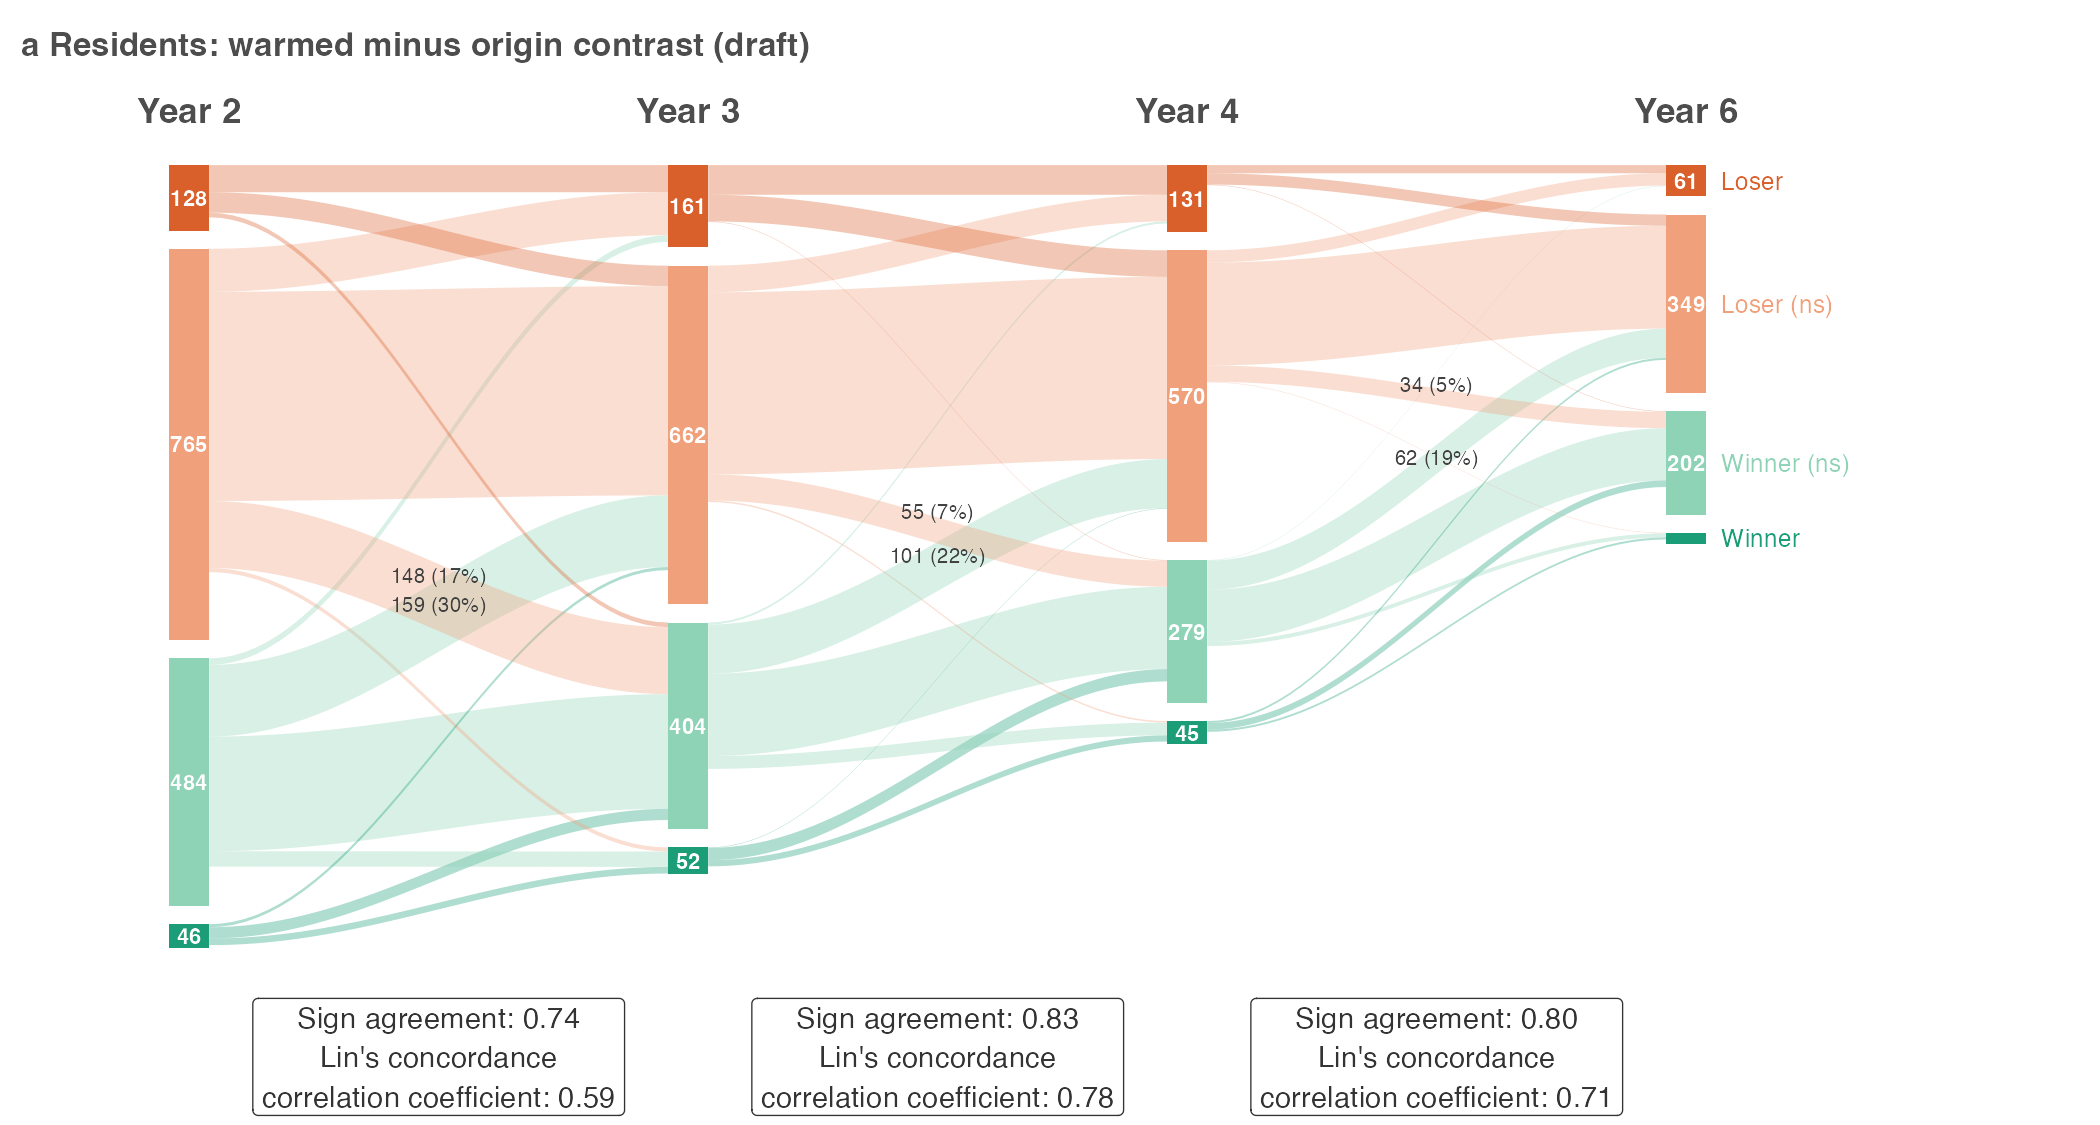
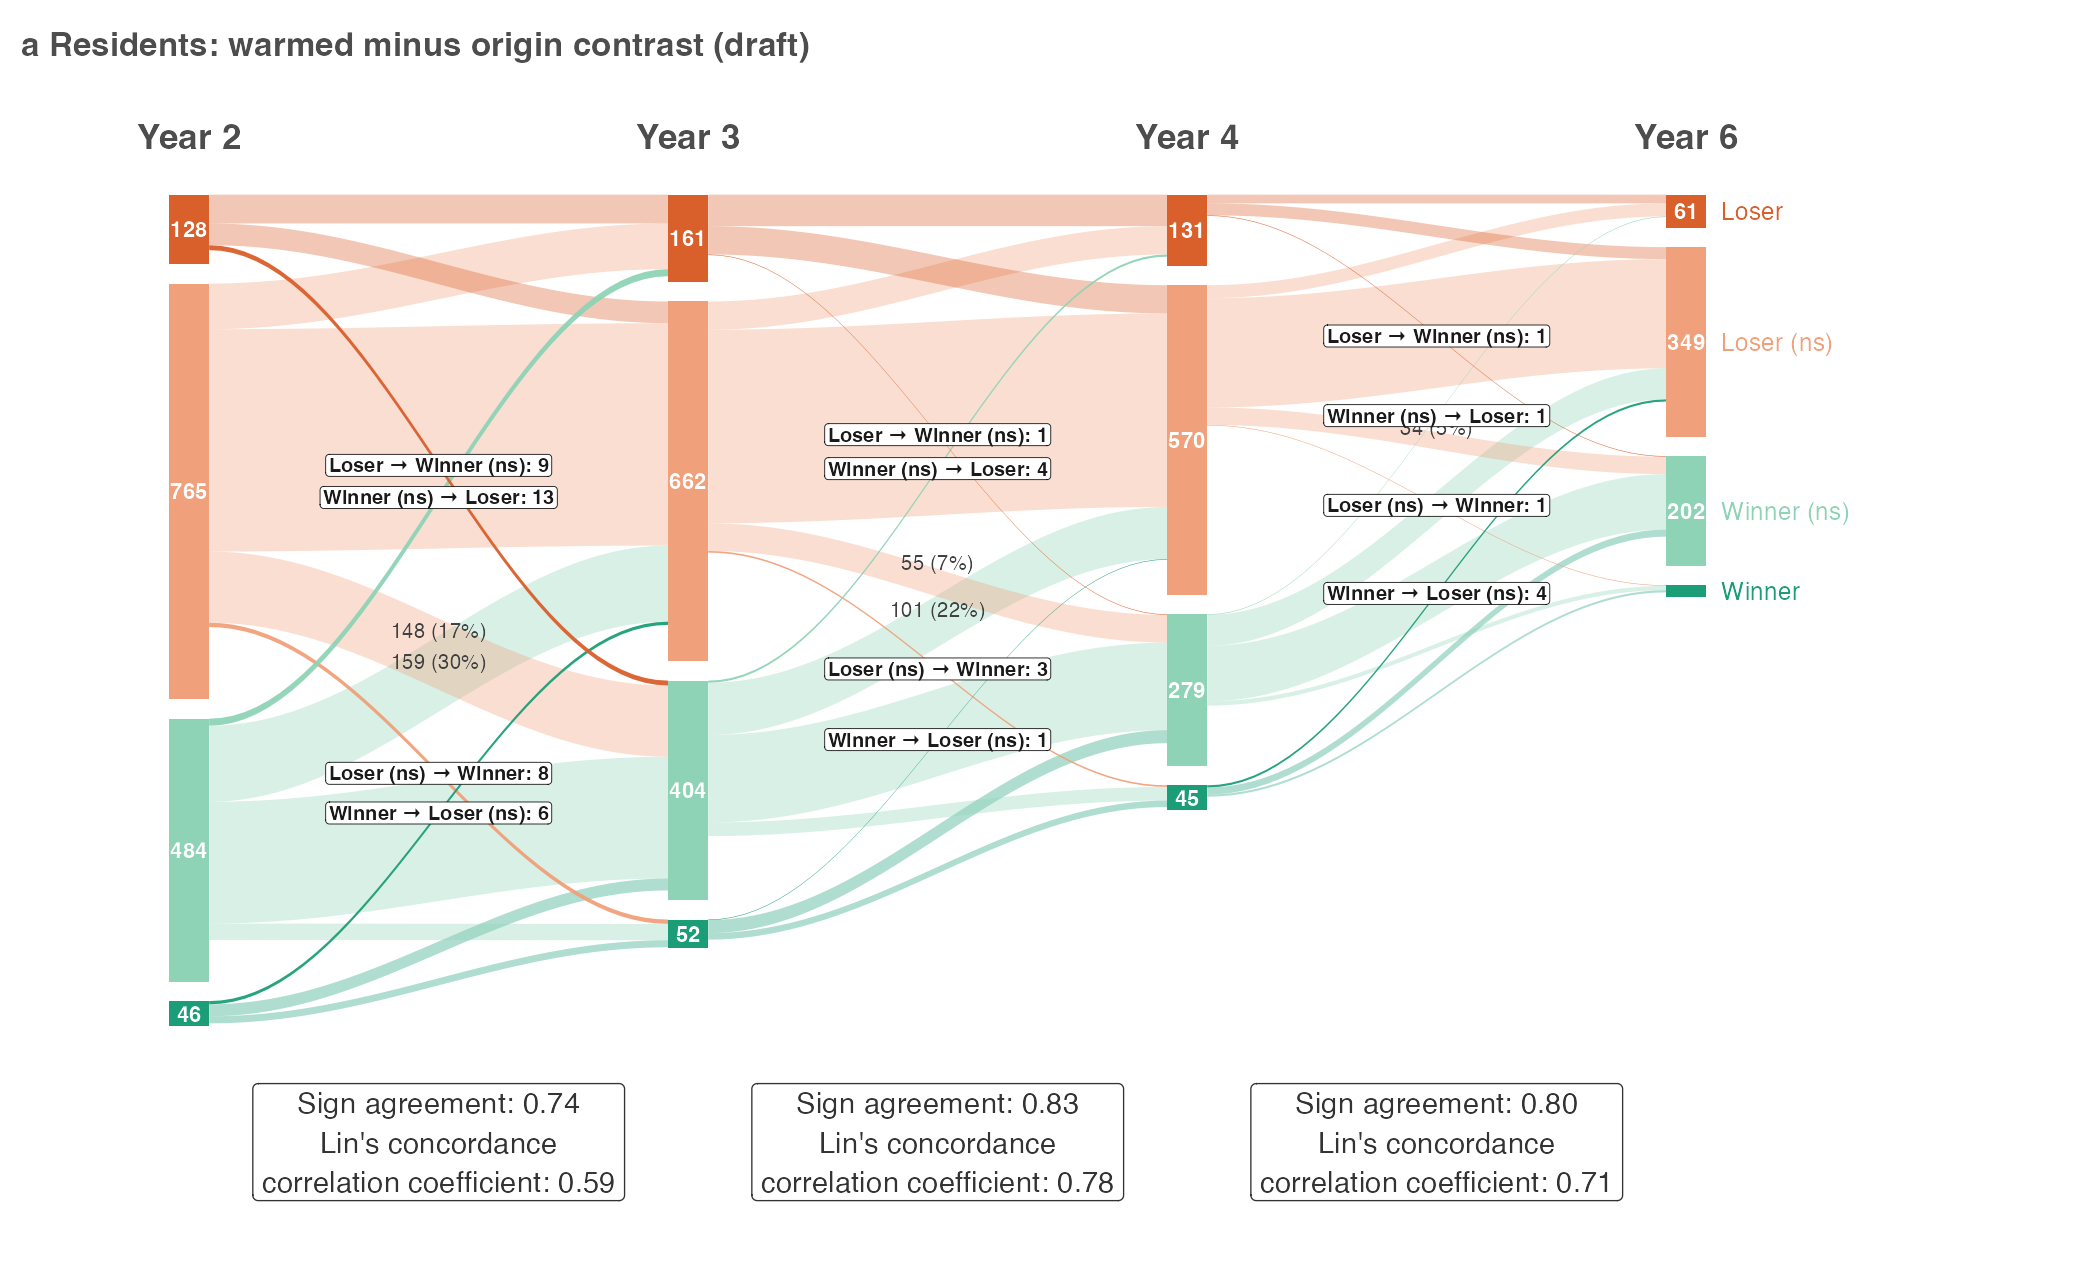
step 03: Fig 1a draft labels and darkens the ribbons that cross zero with a significant class at either end; report states that no significant winner became a significant loser or back (Bills)

diff --git a/reports/03_temporal.md b/reports/03_temporal.md
@@ -54,6 +54,8 @@ Each resident species x experiment was classified at years 2, 3, 4 and 6 after t
 
 Strata are drawn to one absolute scale, so columns shrink as experiments end and as species are absent from both groups. Ribbon labels give the combinations that crossed from the loser side (Loser, Loser (ns)) to the winner side or back, with their share of the starting side. The final figure, with panel b (colonizers, step 07), is drawn in step 10. Columns are evenly spaced: the gap from year 4 to year 6 spans two years, the others one.
 
+Switches between a significant winner and a significant loser, in either direction: 2 to 3: 0; 3 to 4: 0; 4 to 6: 0. Ribbons that cross zero with a significant class at either end are drawn darker and labelled with their count.
+
 ## Warnings captured
 
 - The `label.size` argument of `geom_label()` is deprecated as of ggplot2 3.5.0.
